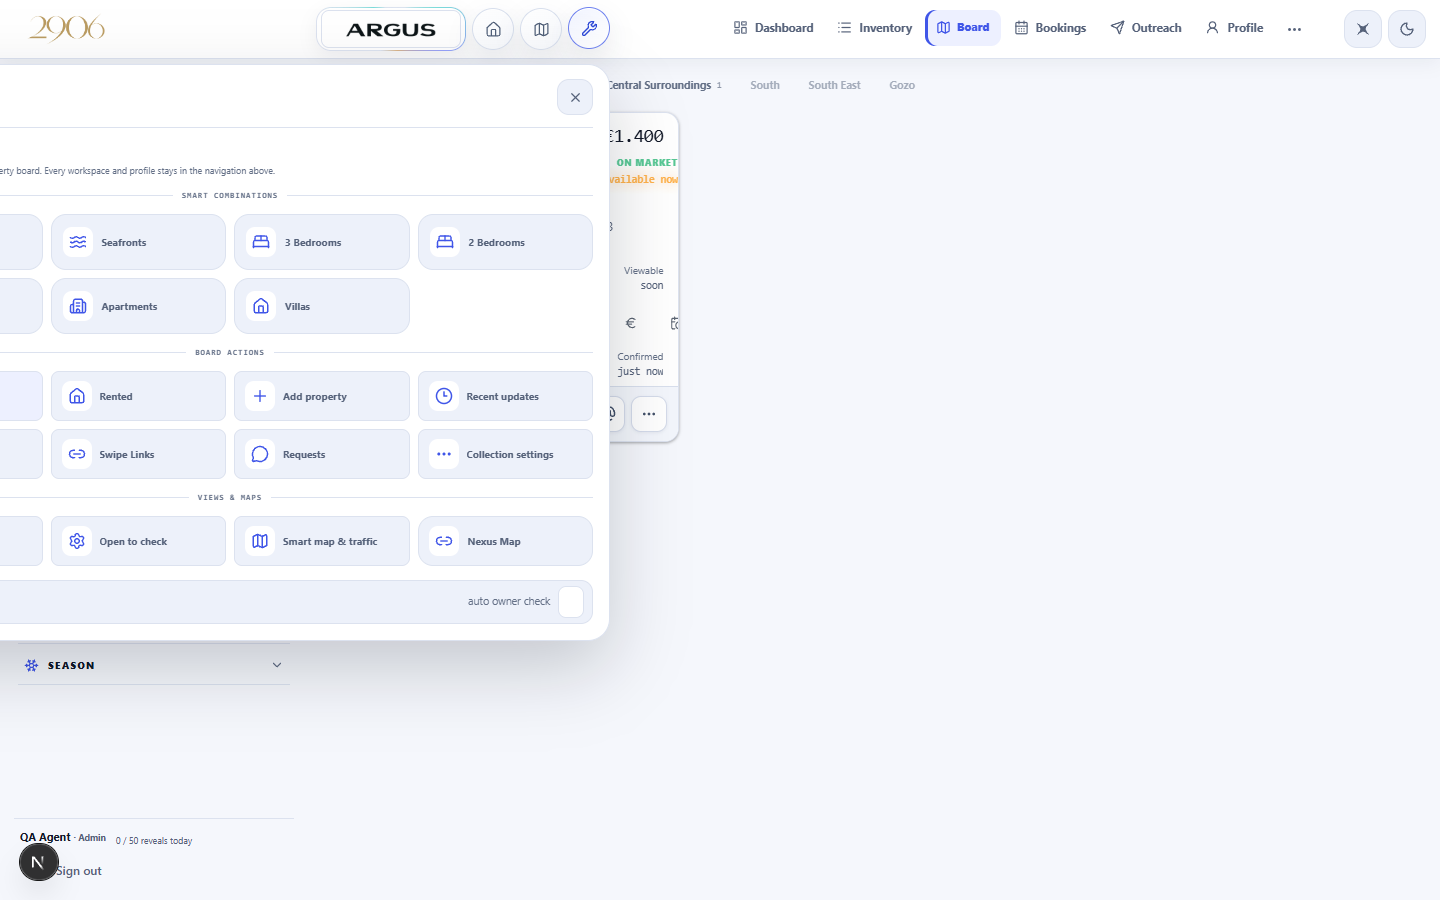
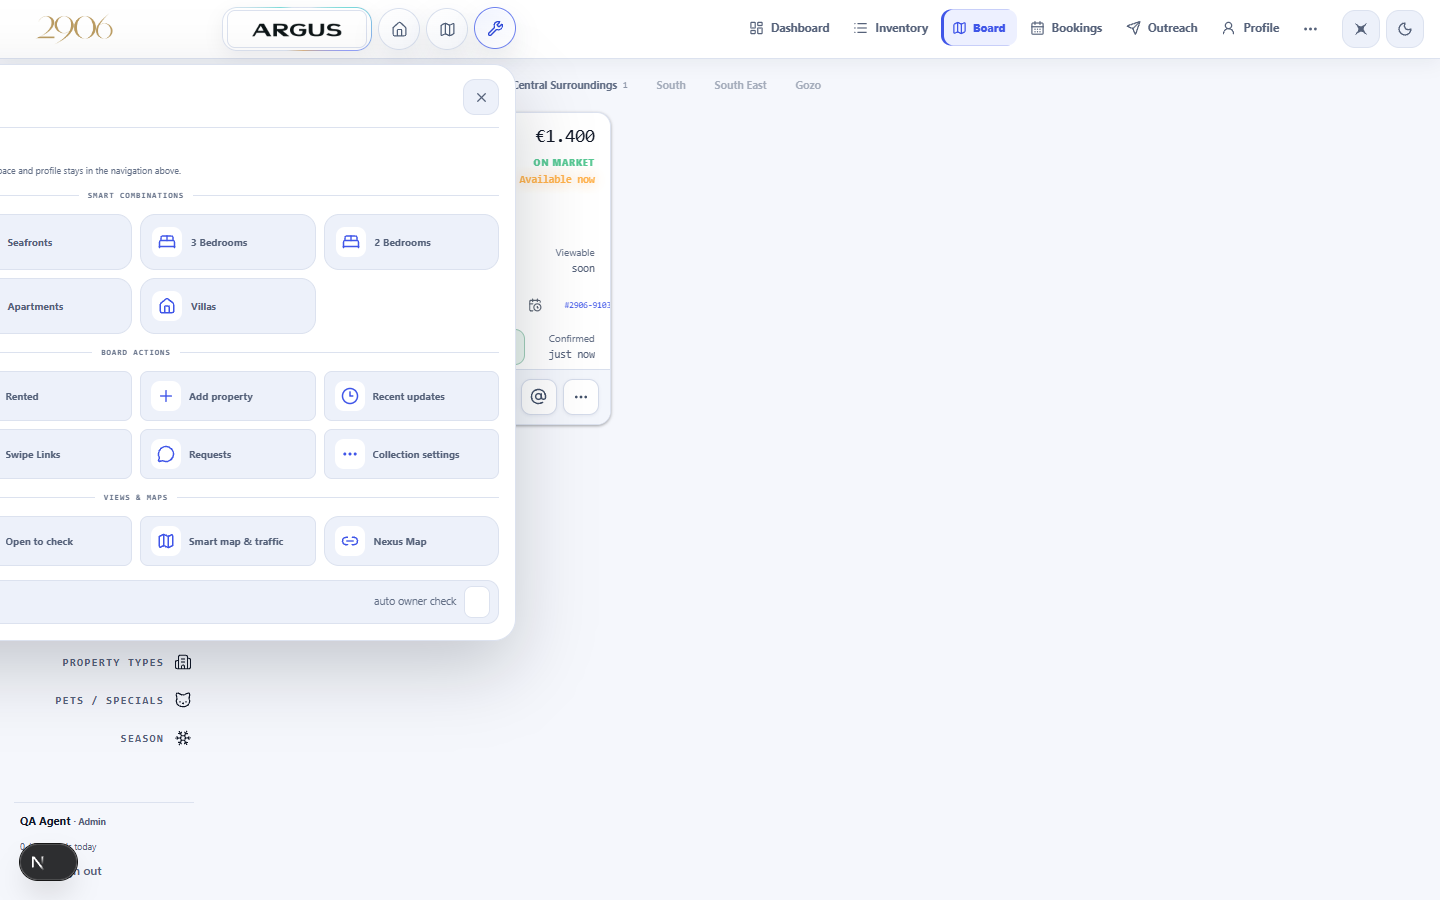
ARGUS final: centred board canvas (filters 180 + results 1220, 3 columns), founder-style filter column, outdated tests rewritten
- Desktop: 2906 far left, ARGUS group over the first card column, labelled
  nav ending over the results' right edge, theme far right.
- Filter column: right-aligned uppercase labels + icon, collapsed by default,
  a click opens the section as a small card.
- tests/board-clean-desktop.test.cjs rewritten for the new layout (passes;
  CRM_MOCK_BASE configurable); tests/rental-modes.test.js looks for the
  winter/short icons beside the star (live backend, not run).
- Handover document updated.

diff --git a/tests/rental-modes.test.js b/tests/rental-modes.test.js
@@ -72,29 +72,29 @@ async function run() {
     await page.goto(`${BASE}/schedule-board?q=ZZWIN`, { waitUntil: 'domcontentloaded', timeout: 120000 })
     await page.waitForFunction(() => document.body.innerText.includes('ZZWIN-1'), { timeout: 60000 }).catch(() => {})
     await sleep(1500)
-    // Board cards do not print the ref (only the brand mark), so the three throwaway cards are found by
-    // content: the innermost block holding a photo placeholder, Sliema and the €1.400 price. With the
-    // free-text filter on ZZWIN there are exactly three, told apart by which tags they carry.
-    const cards = await page.evaluate(() => {
-      const isCard = el => { const t = el.innerText || ''; return t.includes('no photo') && t.includes('Sliema') && /1[.,]400/.test(t) && t.length < 500 }
-      const all = [...document.querySelectorAll('div')].filter(isCard)
-      const inner = all.filter(el => !all.some(o => o !== el && el.contains(o)))
-      return inner.map(el => {
-        const winter = el.querySelector('[data-testid="badge-winter"]'), short = el.querySelector('[data-testid="badge-short"]'), until = el.querySelector('[data-testid="until-line"]')
-        const nextToTown = !!winter && (() => { const kids = [...winter.parentElement.children]; const ti = kids.findIndex(k => /Sliema/.test(k.innerText || '')); return ti >= 0 && ti < kids.indexOf(winter) })()
-        return { winter: !!winter, short: !!short, until: until ? until.innerText.trim() : null, nextToTown }
-      })
-    })
+    // 2026-10-19 (ARGUS UI): the WINTER / SHORT tag moved from beside the
+    // locality to the icon row beside the star (same rule: winter mode OR a Bis
+    // date). Cards carry data-ref, so the three throwaway cards are found by ref.
+    const cards = await page.evaluate(() => [...document.querySelectorAll('[data-ref^="ZZWIN-"]')].map(el => {
+      const until = el.querySelector('[data-testid="until-line"]')
+      return {
+        ref: el.dataset.ref,
+        winter: !!el.querySelector('.crm-card-rule-icons [data-rule="winter"]'),
+        short: !!el.querySelector('.crm-card-rule-icons [data-rule="short"]'),
+        besideStar: !!el.querySelector('[data-favourite] + .crm-card-rule-icons'),
+        until: until ? until.innerText.trim() : null,
+      }
+    }))
     cards.length === 3 ? ok('board: exactly the three test cards render', `${cards.length}`) : no('board: three test cards', `found ${cards.length}`)
     const winterOnly = cards.filter(c => c.winter && !c.short), both = cards.filter(c => c.winter && c.short), plain = cards.filter(c => !c.winter && !c.short)
-    winterOnly.length === 1 && winterOnly[0].nextToTown && winterOnly[0].until === 'until April'
-      ? ok('card with a Bis date (ZZWIN-1): WINTER tag sits NEXT TO the locality, "until April" under Available') : no('winter card', JSON.stringify(winterOnly))
-    both.length === 1 && both[0].nextToTown && both[0].until === 'until April'
-      ? ok('card winter + short let (ZZWIN-3): WINTER and SHORT tags, "until April"') : no('winter+short card', JSON.stringify(both))
+    winterOnly.length === 1 && winterOnly[0].besideStar && winterOnly[0].until === 'until April'
+      ? ok('card with a Bis date (ZZWIN-1): ❄ icon beside the star, "until April" under Available') : no('winter card', JSON.stringify(winterOnly))
+    both.length === 1 && both[0].besideStar && both[0].until === 'until April'
+      ? ok('card winter + short let (ZZWIN-3): ❄ and ☀ icons, "until April"') : no('winter+short card', JSON.stringify(both))
     plain.length === 1 && plain[0].until == null
-      ? ok('card WITHOUT a Bis date (ZZWIN-2): no tag, no until line — unchanged') : no('plain card must show nothing extra', JSON.stringify(plain))
+      ? ok('card WITHOUT a Bis date (ZZWIN-2): no winter/short icon, no until line — unchanged') : no('plain card must show nothing extra', JSON.stringify(plain))
     // the map block sits above the cards: bring the cards into view so the tags are IN the screenshot
-    await page.evaluate(() => { const el = document.querySelector('[data-testid="badge-winter"]'); if (el) el.scrollIntoView({ block: 'center' }) })
+    await page.evaluate(() => { const el = document.querySelector('.crm-card-rule-icons [data-rule="winter"]'); if (el) el.scrollIntoView({ block: 'center' }) })
     await sleep(400)
     await page.screenshot({ path: path.join(SHOTS, 'rental-board-cards.png') })
     ok('screenshot', 'tests/screenshots/rental-board-cards.png')

diff --git a/app/crm/crm.css b/app/crm/crm.css
@@ -900,3 +900,45 @@ html:not([data-crm-theme="dark"]) .crm-mobile-immersive .crm-board-orb[data-acti
   .crm-has-sidebar-slot .crm-filterbar{left:238px}
   .crm-has-sidebar-slot .crm-board-islands .crm-argus-orbit{flex-basis:120px}
 }
+
+/* 2026-10-19 pass 4 (founder: "centered like mine, three columns, not filled
+   up"): the board is one centred canvas = filter column 210px + results up to
+   1080px. Header: 2906 far left, ARGUS group over the results, nav ending at
+   the results' right edge, theme far right. Filter column = right-aligned
+   uppercase labels with the icon on the right; a section opens on click. */
+@media (min-width:761px){
+  .crm-workspace.crm-mobile-immersive.crm-has-sidebar-slot{grid-template-columns:180px minmax(0,1220px);justify-content:center;gap:28px;padding-left:14px;padding-right:14px}
+  .crm-has-sidebar-slot .crm-filterbar{left:max(222px,calc((100vw - 1428px)/2 + 208px))}
+  .crm-has-sidebar-slot .crm-header-nav{position:absolute;top:50%;right:max(112px,calc((100vw - 1428px)/2));margin:0;transform:translateY(-50%)}
+  .crm-has-sidebar-slot .crm-header{padding-left:24px;padding-right:16px}
+  .crm-has-sidebar-slot .crm-header-actions{margin-left:auto}
+  .crm-has-sidebar-slot .crm-board-content{max-width:1220px;margin:0;padding-top:10px!important}
+  .crm-has-sidebar-slot .crm-listing-card{grid-template-columns:minmax(0,42%) minmax(0,1fr)!important}
+  .crm-has-sidebar-slot .crm-listing-grid{grid-template-columns:repeat(3,minmax(0,1fr))!important;gap:14px!important}
+
+  .crm-has-sidebar-slot .crm-sidebar nav.crm-filter-rail,.crm-filter-rail{gap:4px;padding:2px 0 18px}
+  .crm-filter-rail>header{justify-content:flex-end;gap:8px;padding:0 2px 10px;background:var(--crm-bg)}
+  .crm-filter-rail>header strong{order:2;font:800 9px var(--font-jetbrains);letter-spacing:.16em;text-transform:uppercase;color:var(--crm-faint)}
+  .crm-filter-rail>header span{order:3}
+  .crm-filter-rail>header .crm-filter-reset{order:1;margin-left:0;margin-right:auto}
+  .crm-filter-rail>section{border:0}
+  .crm-filter-rail .crm-rail-toggle{justify-content:flex-end;gap:10px;min-height:34px;padding:6px 2px;border-radius:10px;color:var(--crm-muted);font:650 10.5px var(--font-jetbrains);letter-spacing:.14em;text-align:right;transition:color .2s ease,background-color .2s ease}
+  .crm-filter-rail .crm-rail-toggle>span{flex:0 1 auto;order:1}
+  .crm-filter-rail .crm-rail-toggle>i{order:0}
+  .crm-filter-rail .crm-rail-toggle>svg:first-child{order:2;width:18px;height:18px;color:var(--crm-text);stroke-width:1.6}
+  .crm-filter-rail .crm-rail-toggle>svg:last-child{display:none}
+  .crm-filter-rail .crm-rail-toggle:hover,.crm-filter-rail section[data-open=true] .crm-rail-toggle{color:var(--crm-text)}
+  .crm-filter-rail section[data-selected=true] .crm-rail-toggle{color:var(--crm-accent)}
+  .crm-filter-rail section[data-selected=true] .crm-rail-toggle>svg:first-child{color:var(--crm-accent)}
+  .crm-filter-rail .crm-rail-body{margin:2px 0 10px;padding:12px;border:1px solid var(--crm-border);border-radius:14px;background:var(--crm-surface);box-shadow:0 8px 22px rgba(4,10,24,.05);animation:crm-rail-open .22s cubic-bezier(.16,1,.3,1)}
+  @keyframes crm-rail-open{from{opacity:0;transform:translateY(-4px)}to{opacity:1;transform:none}}
+}
+@media (min-width:761px) and (max-width:1180px){
+  .crm-has-sidebar-slot .crm-listing-grid{grid-template-columns:repeat(2,minmax(0,1fr))!important}
+}
+@media (min-width:761px) and (max-width:900px){
+  .crm-workspace.crm-mobile-immersive.crm-has-sidebar-slot{grid-template-columns:180px minmax(0,1fr);gap:16px}
+  .crm-has-sidebar-slot .crm-filterbar{left:210px}
+  .crm-has-sidebar-slot .crm-listing-grid{grid-template-columns:1fr!important}
+}
+@media (prefers-reduced-motion:reduce){.crm-filter-rail .crm-rail-body{animation:none}}
